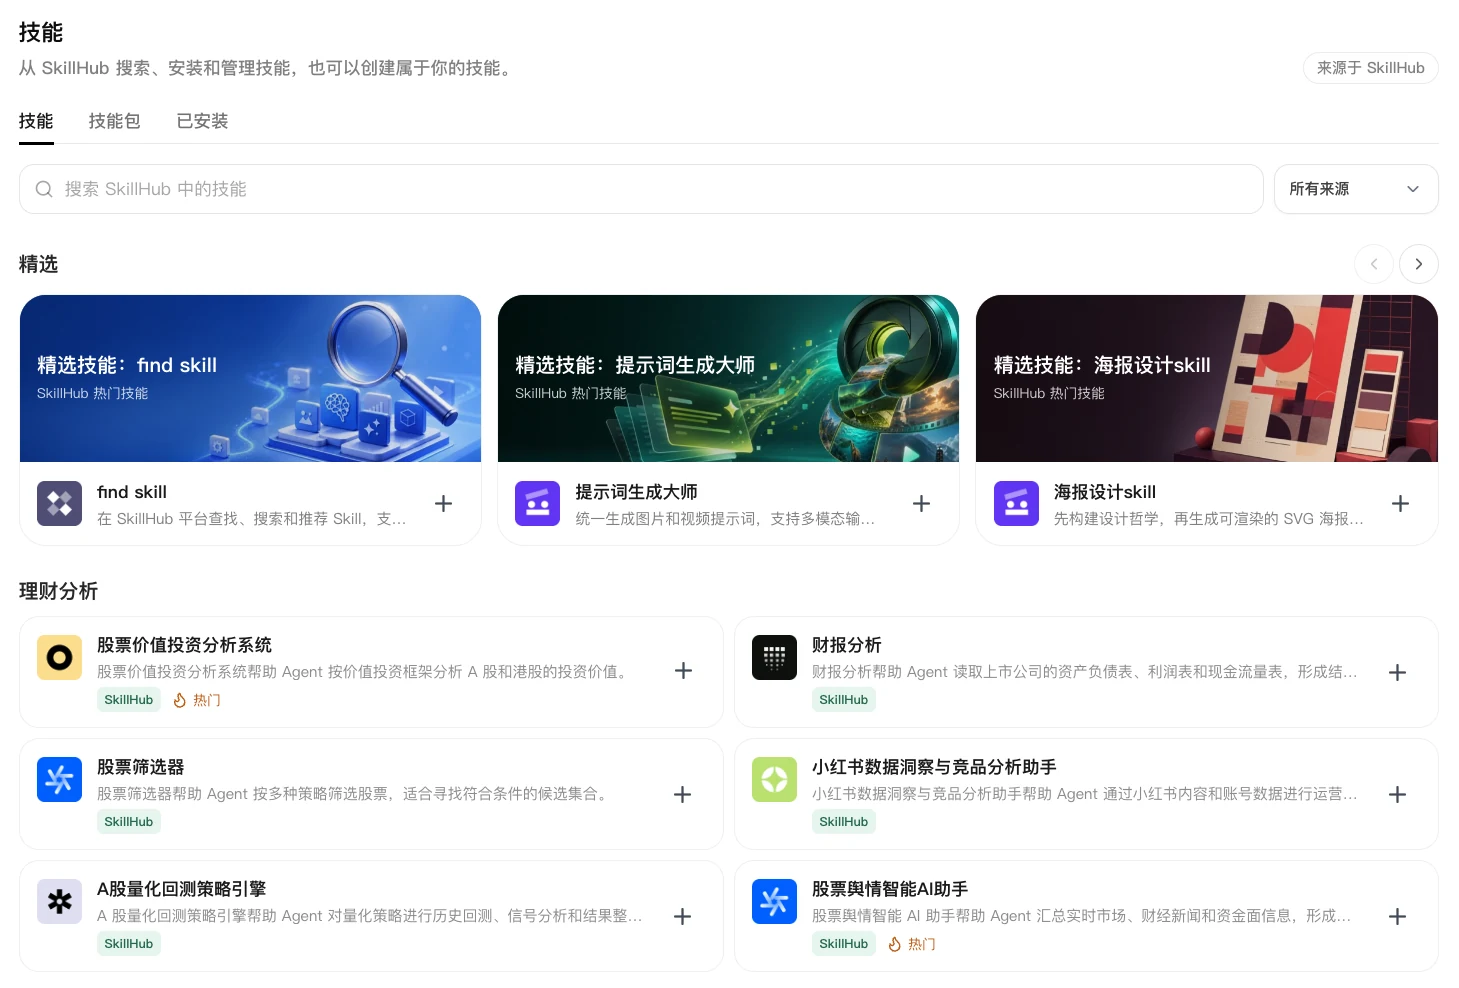
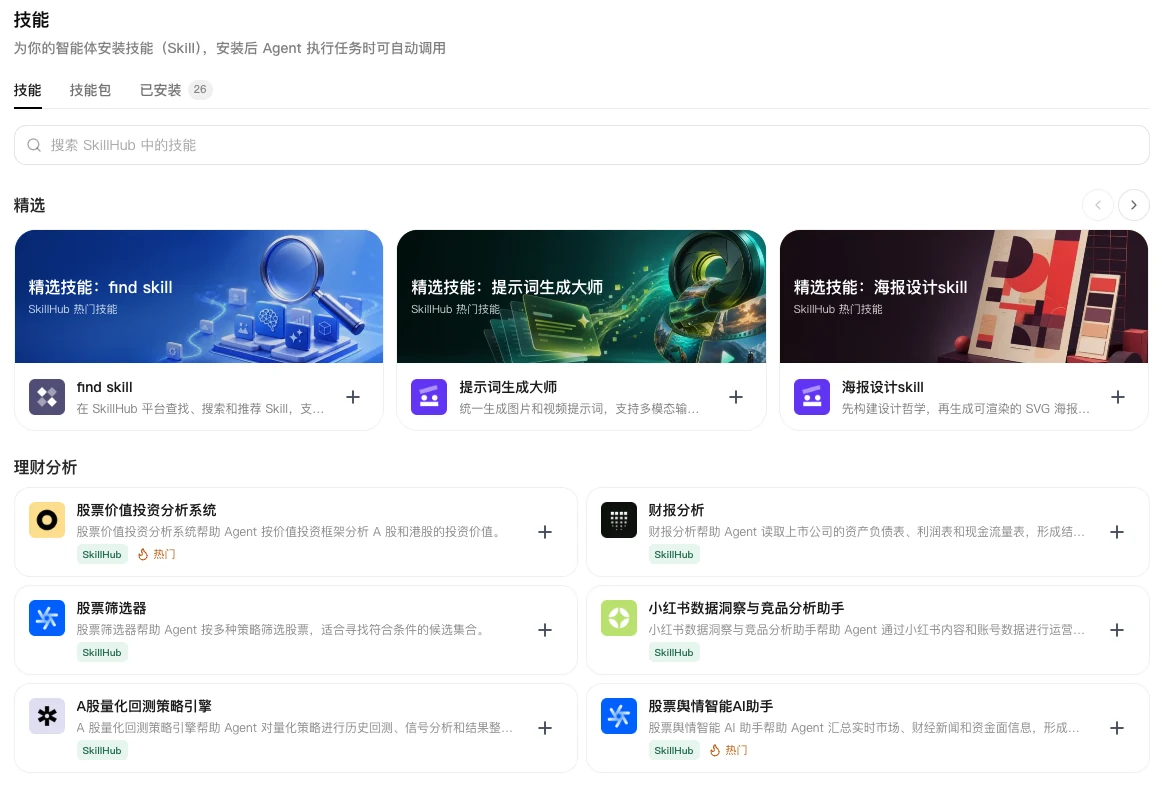
[FE-AI] feat(changelog): 更新国内外站产品动态 / refresh product updates
更新国内外站更新日志文案、截图与展示比例，并补充中英文混排空格规范和回归测试。

AI-Assisted-By: FE-AI

diff --git a/frontend/src/pages/marketing/__tests__/channel-copy.test.tsx b/frontend/src/pages/marketing/__tests__/channel-copy.test.tsx
@@ -117,10 +117,12 @@ describe("marketing channel copy", () => {
       expect.stringContaining("/assets/changelog/lightvela-launch.webp"),
     );
     expect(screen.getByText("快速安装技能组合，让 Agent 从单点技能走向完整工作流。")).toBeInTheDocument();
-    expect(screen.getByAltText("LightVela 支持技能包")).toHaveAttribute(
+    const skillPackageImage = screen.getByAltText("LightVela 支持技能包");
+    expect(skillPackageImage).toHaveAttribute(
       "src",
       expect.stringContaining("/assets/changelog/lightvela-skill-package-cn.webp"),
     );
+    expect(skillPackageImage.parentElement).toHaveStyle({ aspectRatio: "1166 / 680" });
     expect(screen.queryByRole("heading", { name: "新增技能包功能" })).not.toBeInTheDocument();
   });
 
@@ -132,6 +134,7 @@ describe("marketing channel copy", () => {
     );
 
     expect(screen.getByText("2026 年 5 月")).toBeInTheDocument();
+    expect(screen.getByRole("heading", { name: "LightVela 支持查看 Hermes Agent 记忆" })).toBeInTheDocument();
     expect(screen.getByRole("heading", { name: "LightVela 支持设置自动任务" })).toBeInTheDocument();
     expect(screen.getByText("为 Agent 设置周期、间隔或单次自动任务，让它按计划执行提醒、总结、通知等日常工作。")).toBeInTheDocument();
   });

diff --git a/frontend/src/pages/marketing/changelog-page.tsx b/frontend/src/pages/marketing/changelog-page.tsx
@@ -142,7 +142,7 @@ function VisualCard({ variant }: { variant: "lobster" | "cloudStorage" | "skillP
       : variant === "chat"
       ? t("LightVela 支持网页内对话")
       : variant === "memory"
-      ? t("LightVela支持查看Hermes Agent记忆")
+      ? t("LightVela 支持查看 Hermes Agent 记忆")
       : variant === "schedule"
       ? t("LightVela 支持设置自动任务")
       : variant === "automationSkill"
@@ -180,7 +180,7 @@ function VisualCard({ variant }: { variant: "lobster" | "cloudStorage" | "skillP
       : variant === "automationSkill"
         ? "820 / 282"
         : variant === "skill-package"
-        ? "1450 / 714"
+        ? "1166 / 680"
         : variant === "soul"
           ? isGlobal ? "1279 / 808" : "1451 / 917"
           : "710 / 360";
@@ -313,7 +313,7 @@ function ChangelogContent() {
         },
         {
           id: "memory",
-          title: t("LightVela支持查看Hermes Agent记忆"),
+          title: t("LightVela 支持查看 Hermes Agent 记忆"),
           desc: t("在控制台查看 Hermes Agent 的记忆、用户画像和字符占用，帮助你了解 Agent 当前掌握的上下文。"),
           visual: "memory",
         },

diff --git a/frontend/src/pages/marketing/__tests__/global-changelog.test.tsx b/frontend/src/pages/marketing/__tests__/global-changelog.test.tsx
@@ -73,6 +73,7 @@ describe("global changelog skill package entry", () => {
       expect.stringContaining("/assets/changelog/lightvela-diagnostics-global-zh.webp"),
     );
     expect(screen.getByRole("heading", { name: "Soul 人设能力上线" })).toBeInTheDocument();
+    expect(screen.getByRole("heading", { name: "LightVela 支持查看 Hermes Agent 记忆" })).toBeInTheDocument();
     expect(screen.getByAltText("Soul 人设能力上线")).toHaveAttribute(
       "src",
       expect.stringContaining("/assets/changelog/soul-persona-global-zh.webp"),

diff --git a/.agents/skills/lightvela-changelog-update/SKILL.md b/.agents/skills/lightvela-changelog-update/SKILL.md
@@ -159,6 +159,7 @@ TAPD 操作需遵循仓库和 TAPD skill 的调用规范，使用 `mcporter-inte
 - 避免 MR、接口、数据库、配置项等工程化词汇。
 - 风格要和现有更新日志一致。
 - 如果用户给了指定标题或描述，优先保留；只在明显不通顺或不准确时微调。
+- 标题和描述中英文混排时，中文与相邻英文之间统一保留一个半角空格，例如 `LightVela 支持查看 Hermes Agent 记忆`，不要写成 `LightVela支持查看Hermes Agent记忆`。
 
 #### 国际站英文标题大小写
 
